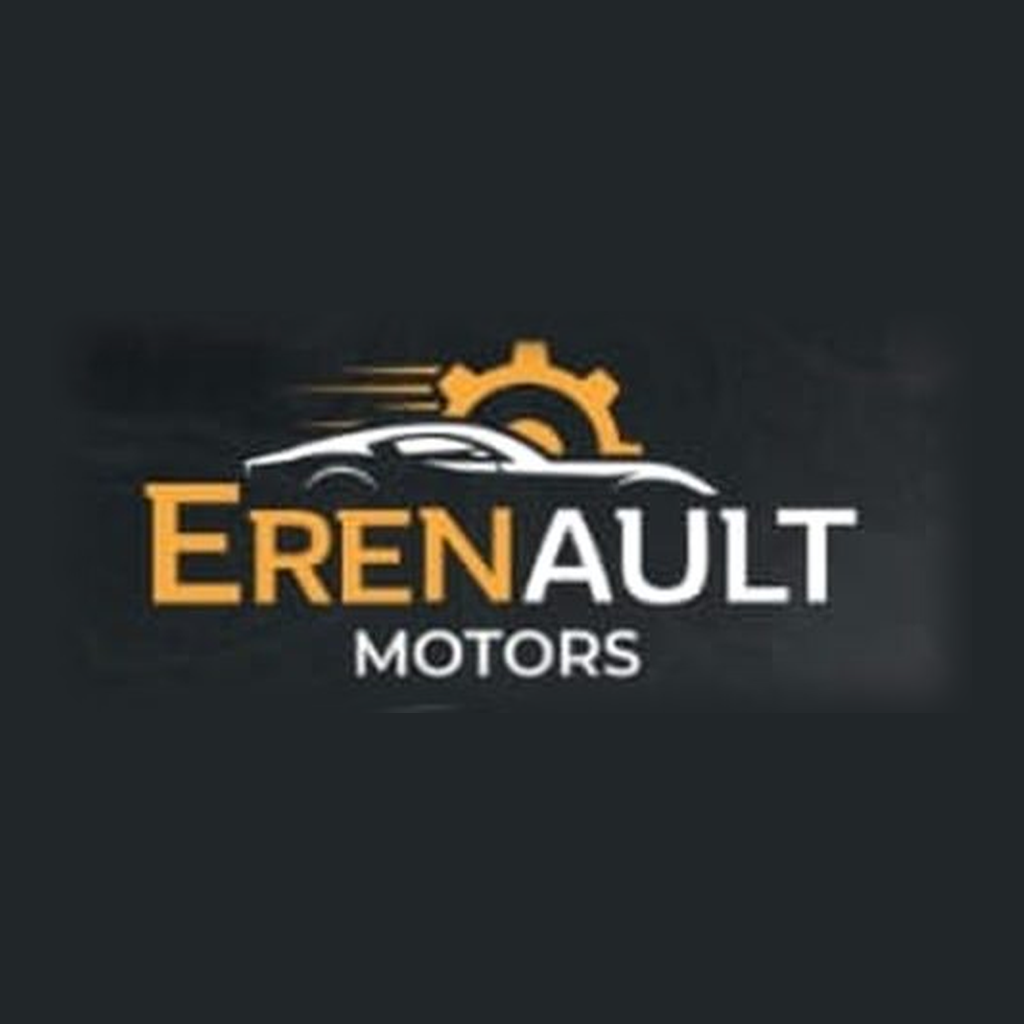
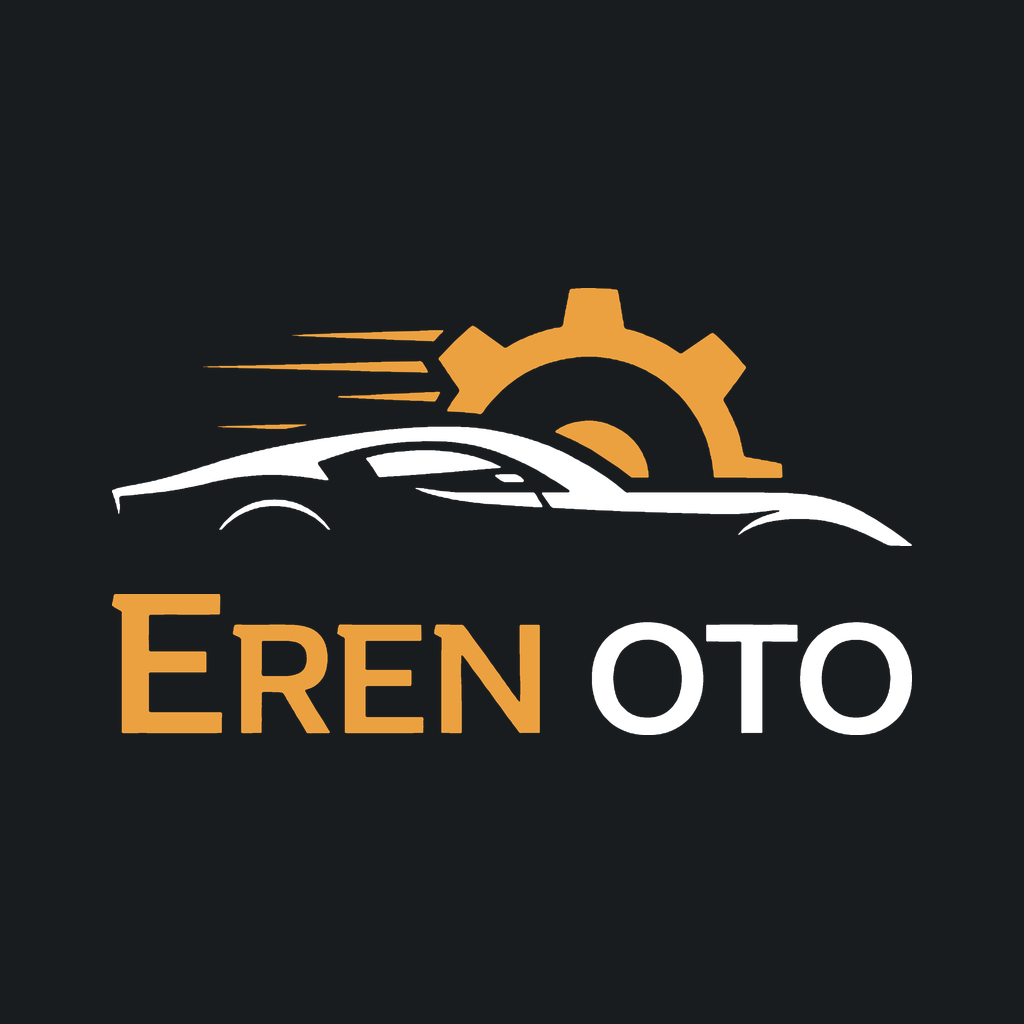
Yeni Eren Oto Motor logosu, simge, açılış ekranı ve uygulama adı (sonraki sürüm için)
Claude-Session: https://claude.ai/code/session_0155xA14zbNRJe2iwrydfHQu

Changed region(s): [[0.0938, 0.2812, 0.9375, 0.7188], [0.875, 0.3438, 0.9062, 0.375]]

diff --git a/app/www/index.html b/app/www/index.html
@@ -1,3 +1,3 @@
-<!doctype html><html lang="tr"><head><meta charset="utf-8"><meta name="viewport" content="width=device-width,initial-scale=1"><title>Erenault</title>
+<!doctype html><html lang="tr"><head><meta charset="utf-8"><meta name="viewport" content="width=device-width,initial-scale=1"><title>Eren Oto Motor</title>
 <style>body{margin:0;background:#212629;color:#fff;font:16px system-ui,sans-serif;display:grid;place-items:center;min-height:100vh;text-align:center;padding:24px}</style></head>
-<body><div><h2>Erenault</h2><p>İnternet bağlantısı bekleniyor… Bağlantı gelince uygulama açılır.</p><button onclick="location.reload()" style="font:inherit;padding:12px 20px;border-radius:12px;border:0;background:#f2a531">Tekrar dene</button></div></body></html>
+<body><div><h2>Eren Oto Motor</h2><p>İnternet bağlantısı bekleniyor… Bağlantı gelince uygulama açılır.</p><button onclick="location.reload()" style="font:inherit;padding:12px 20px;border-radius:12px;border:0;background:#f2a531">Tekrar dene</button></div></body></html>

diff --git a/scripts/android_extra.py b/scripts/android_extra.py
@@ -14,7 +14,7 @@ open(R + '/res/xml/shortcuts.xml', 'w').write('''<?xml version="1.0" encoding="u
 sp = R + '/res/values/strings.xml'
 s = open(sp).read()
 if 'sc_asistan' not in s:
-    s = s.replace('</resources>', '    <string name="sc_asistan">Asistan</string>\n    <string name="sc_asistan_uzun">Erenault Asistan</string>\n</resources>')
+    s = s.replace('</resources>', '    <string name="sc_asistan">Asistan</string>\n    <string name="sc_asistan_uzun">Eren Oto Asistan</string>\n</resources>')
     open(sp, 'w').write(s)
 mp = R + '/AndroidManifest.xml'
 m = open(mp).read()
